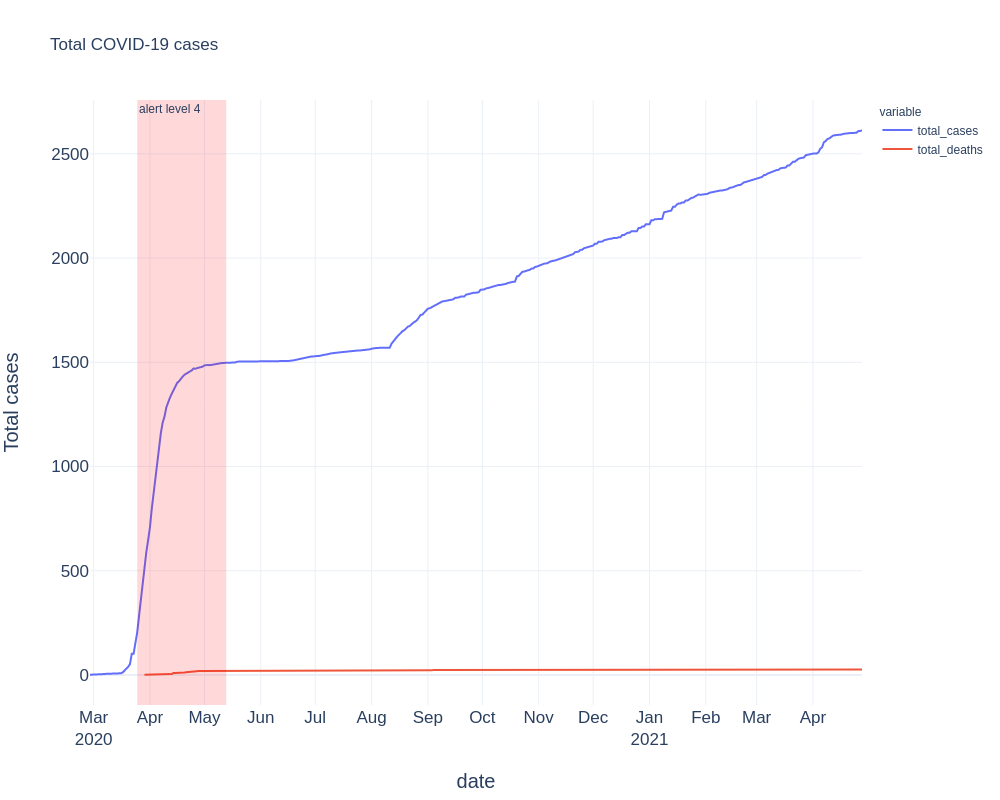
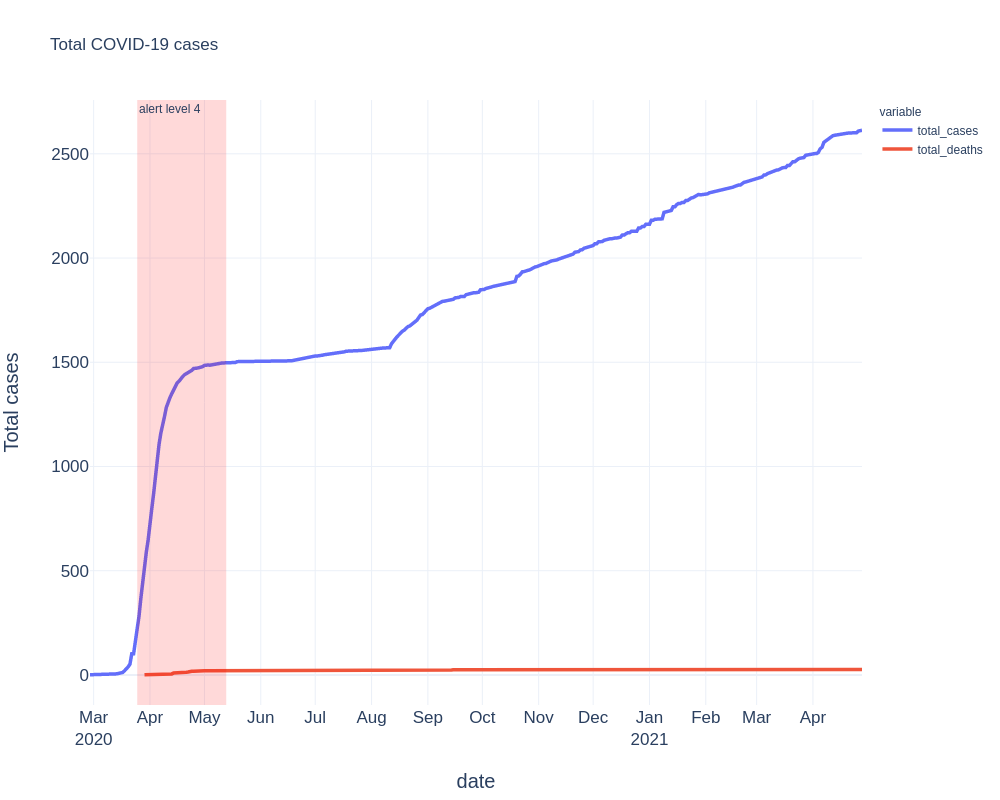
update report

diff --git a/report.html b/report.html
@@ -58,6 +58,11 @@
         <img src="images/fig1.png" alt="Figure 1 plot">
         <figcaption><b>Fig.1</b> - The total number of cases of COVID-19 in New Zealand</figcaption>
     </figure></p>
+    <p>Through 2020-02-26 - 2021-05-09 was confirmed cases 2643<br>
+    The climax point has been reached in:
+    <li>March 2020 - 743<br>
+    <li>April 2020 - 741<br>
+    In confirmed cases was 396 deaths.</p>
     <p>To realise how exactly covid-19 looks like, we will compared it to the other countries:
     <li>Poland (POL)</li>
     <li>European Union average (EU)</li>

diff --git a/scripts/fig1.py b/scripts/fig1.py
@@ -37,10 +37,11 @@ def create_plot(df):
     """
     fig = px.line(df, x="date", y=df.columns,
                   hover_data={"date": "|%B %d, %Y"},
-                  title='Total COVID-19 cases', template='plotly_white')
+                  title='Total COVID-19 cases', template='plotly_white',)
     fig.add_vrect(x0="2020-03-25", x1="2020-05-13",
                   annotation_text="alert level 4", annotation_position="top left",
                   fillcolor="red", opacity=0.15, line_width=0)
+    fig.update_traces(line=dict(width=3.5))
     fig.update_xaxes(
         dtick="M1",
         tickformat="%b\n%Y",
